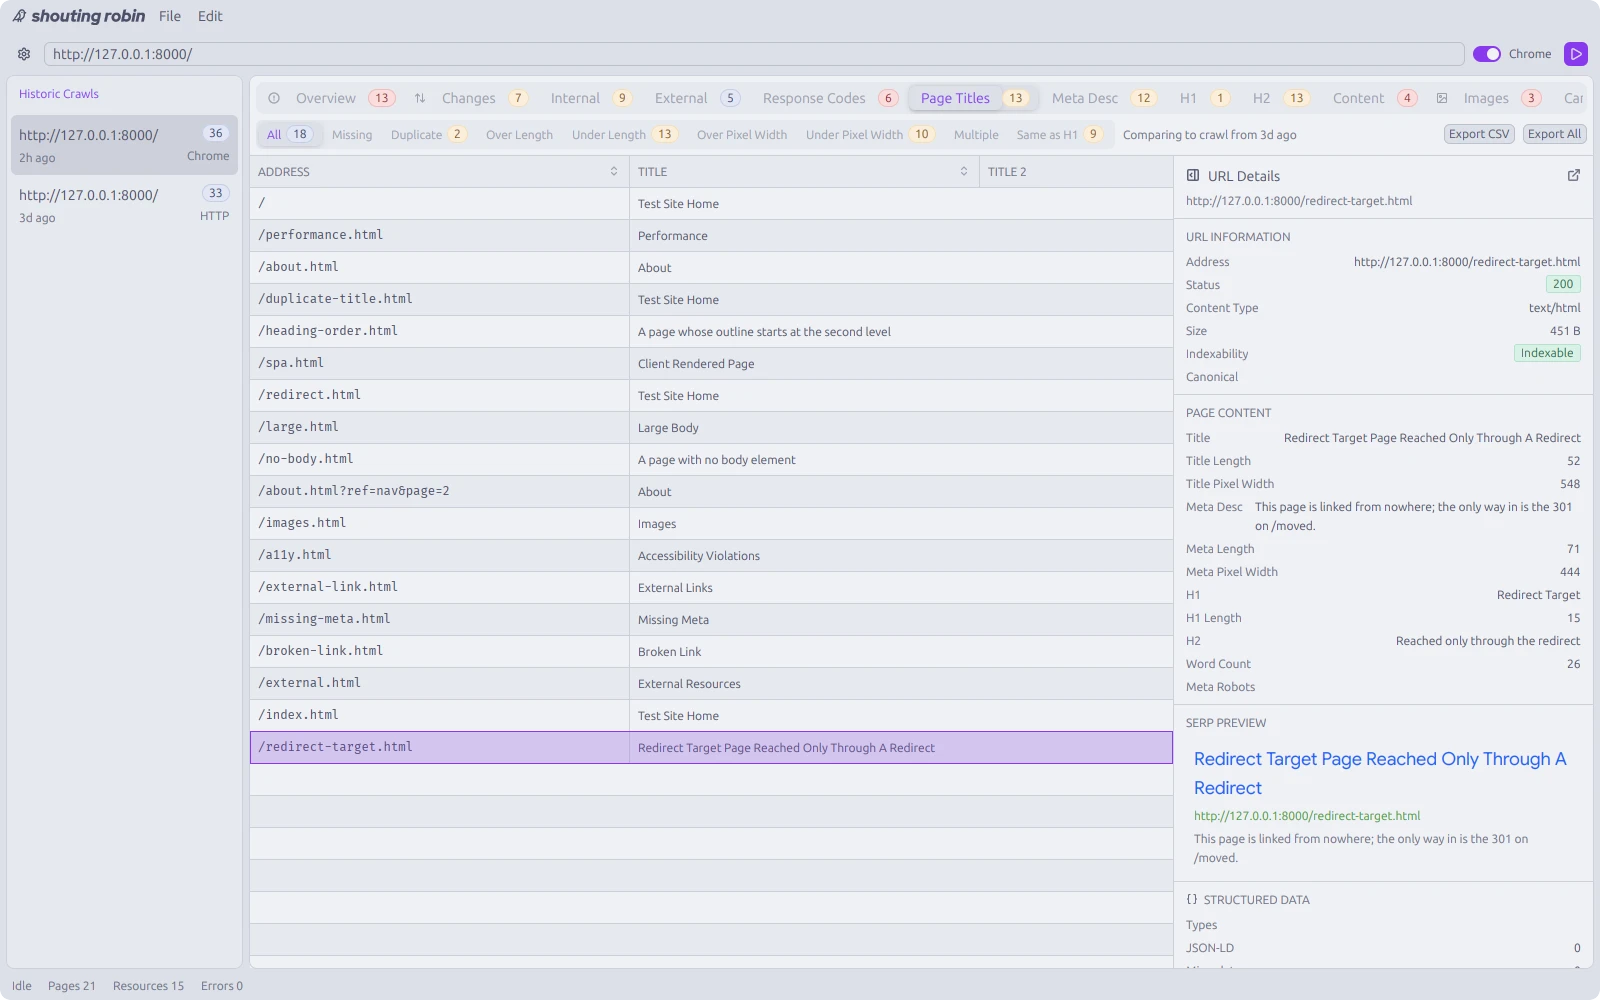
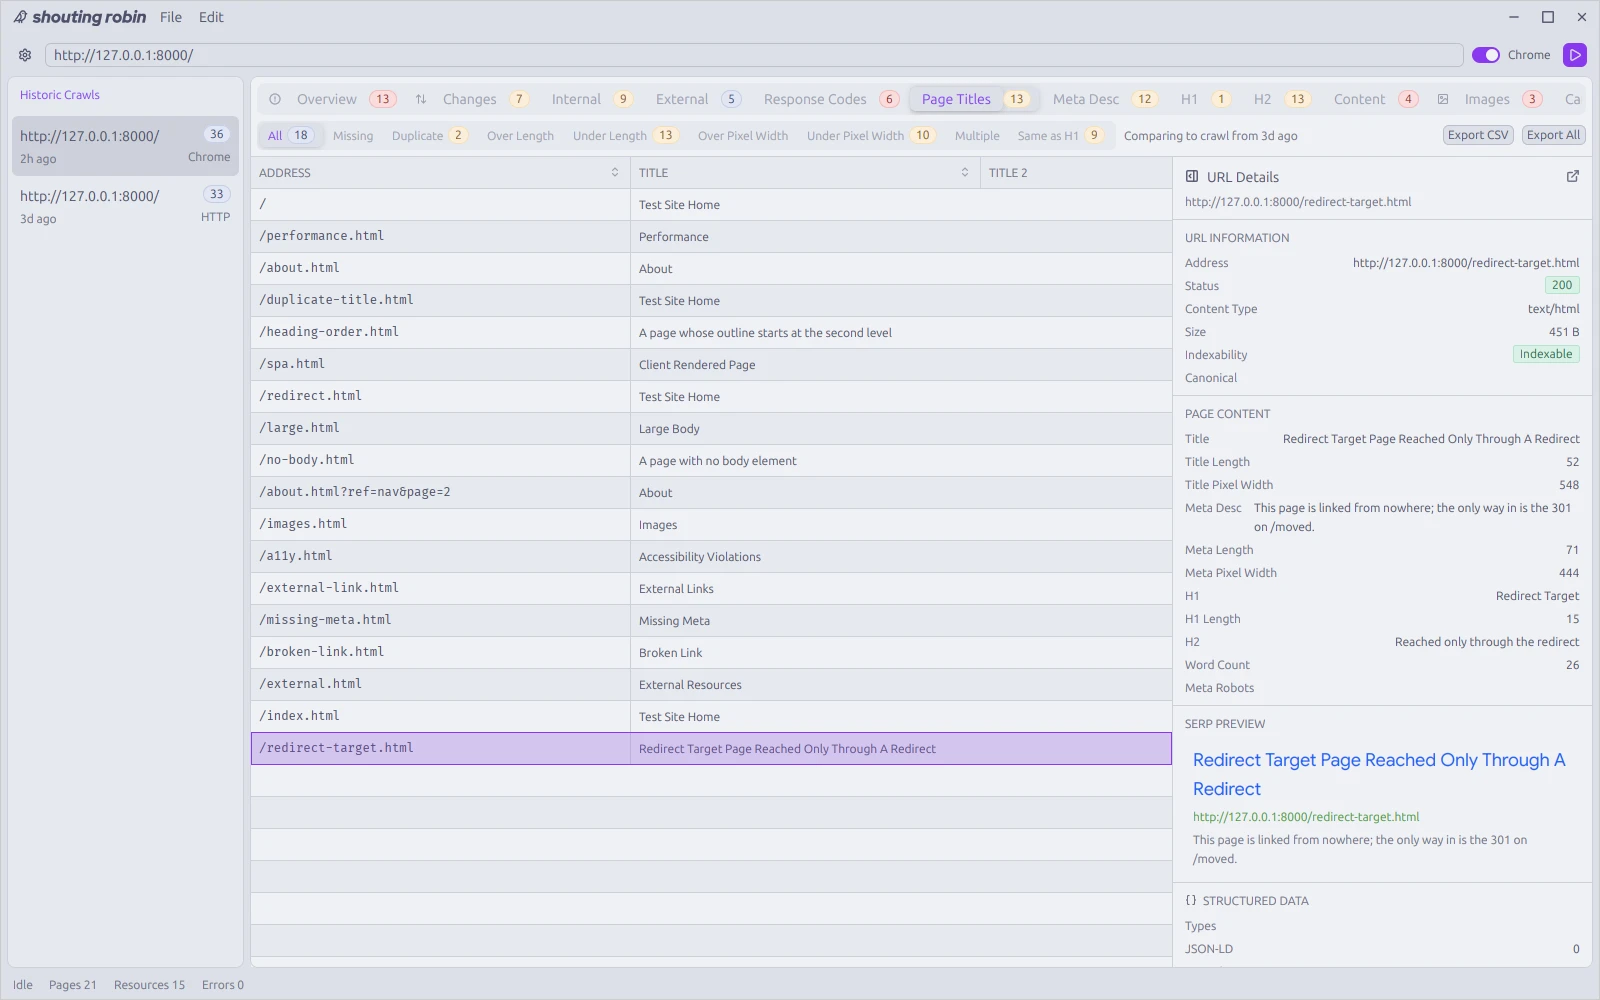
fix: draw the window controls in the screenshots
Xvfb runs no window manager, so gpui fell back to server-side decorations and the title bar left out the window controls. The capture script now advertises a window manager that supports _GTK_FRAME_EXTENTS, so gpui draws the client-side frame, and crops the frame's shadow inset. The scene window grows by that inset to keep the frame at 1600x1000. PNG_DIR also writes lossless PNGs.

diff --git a/crates/shoutingrobin/src/screenshots.rs b/crates/shoutingrobin/src/screenshots.rs
@@ -19,9 +19,11 @@ use crate::crawl::RenderMode;
 use crate::crawl::event::PageRecord;
 use crate::views::ResultTab;
 
-/// The size of the virtual display the script starts.
-const WINDOW_WIDTH: f32 = 1600.;
-const WINDOW_HEIGHT: f32 = 1000.;
+/// The size of the virtual display the script starts. The visible frame is
+/// 1600x1000. On Linux the client-side frame adds a 20px shadow inset on every
+/// side, which the capture script crops away.
+const WINDOW_WIDTH: f32 = 1640.;
+const WINDOW_HEIGHT: f32 = 1040.;
 
 /// How long before the capture each recorded crawl started, oldest first, so
 /// the history reads like crawls run over a few days rather than seconds
